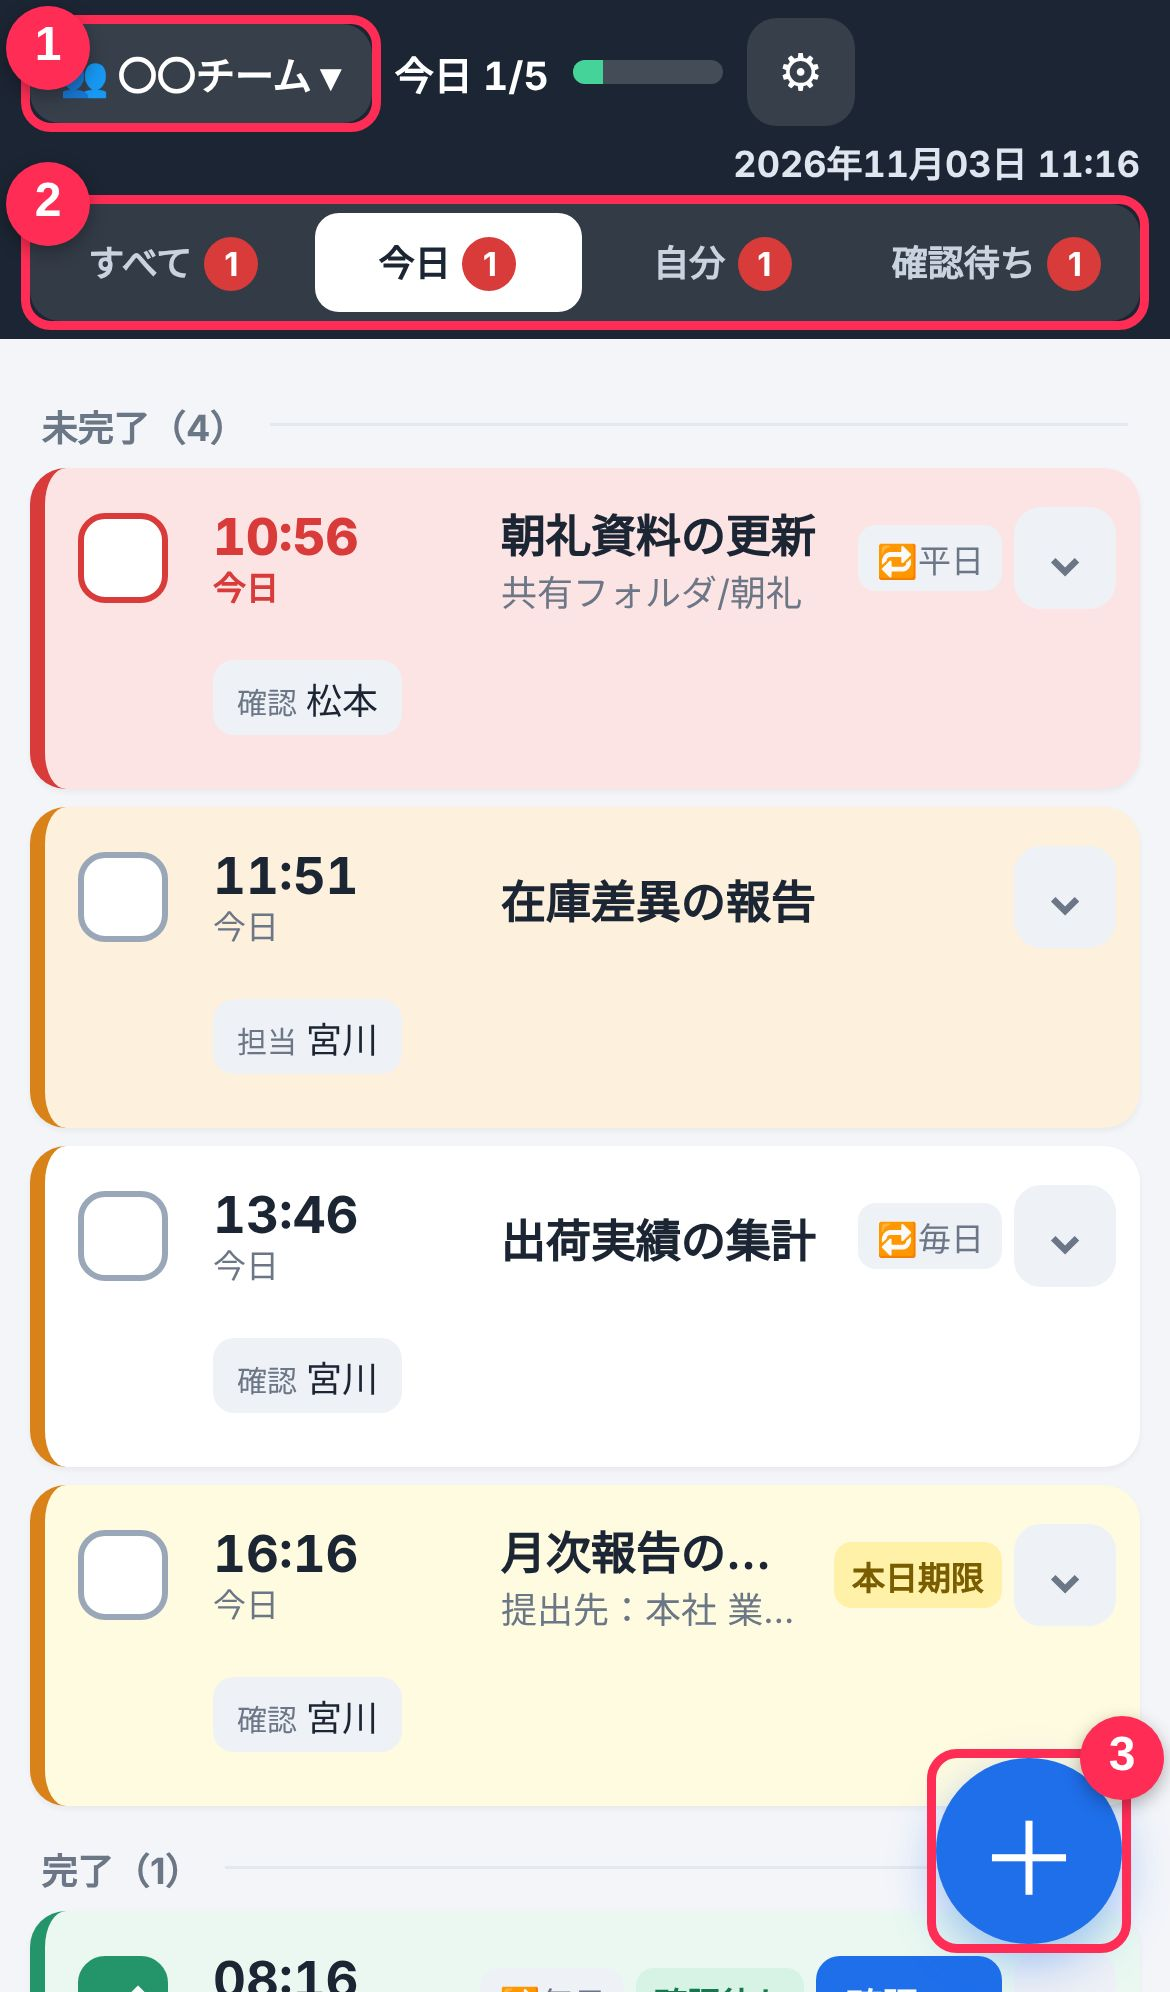
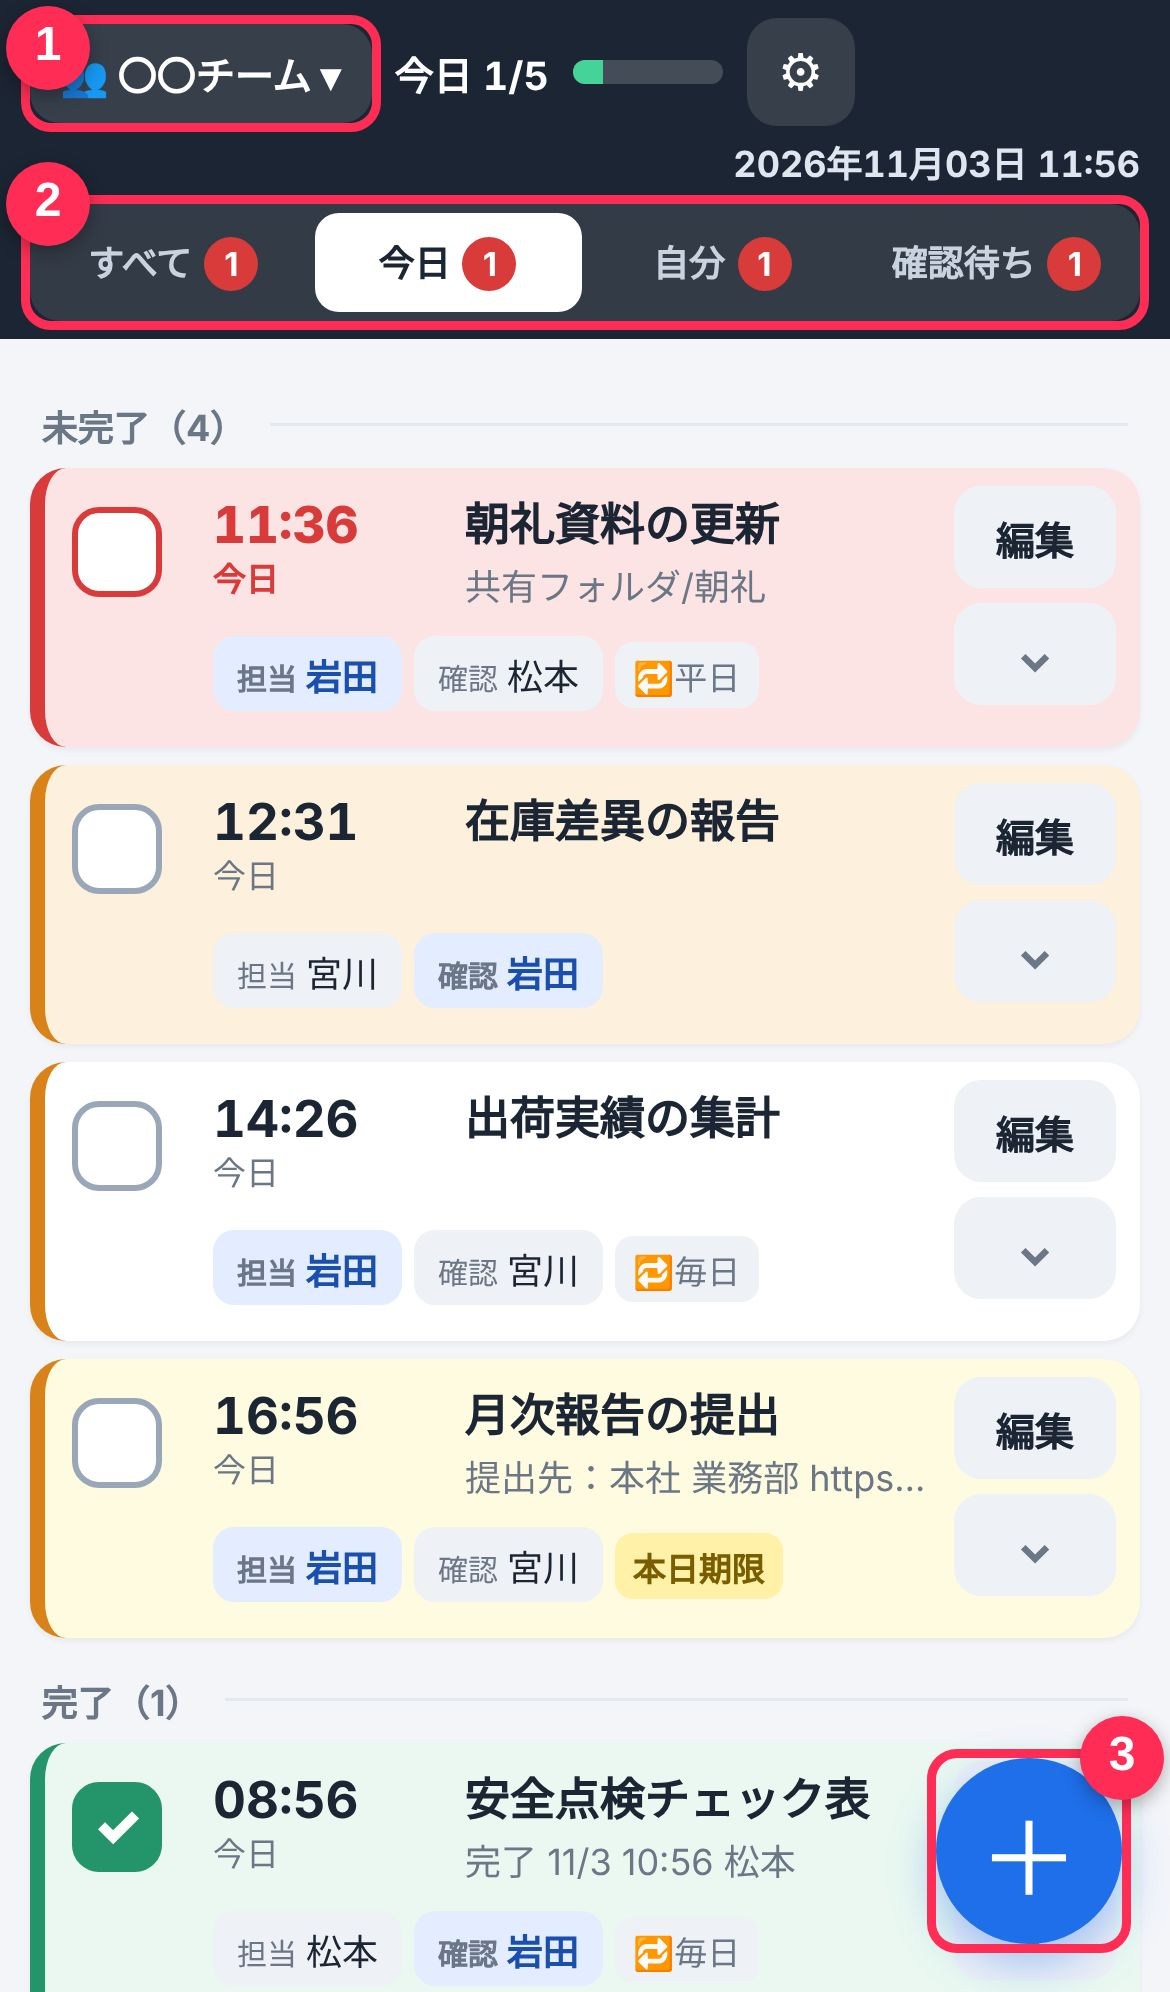
縦画面中心のレイアウトに変更・編集ボタン化・PCでは詳細を右側に常時表示・マニュアル更新
Claude-Session: https://claude.ai/code/session_01CCTYimLHoh7ksLE7jkJJnQ

diff --git a/manual.html b/manual.html
@@ -153,17 +153,16 @@ footer{text-align:center;font-size:12px;color:var(--sub);margin-top:30px}
   </ol>
  </div>
  <div class="card">
-  <p class="lead">📱 <b>横向き</b>にすると、1行で全部見えて便利です（画面の回転ロックをオフに）</p>
-  <img class="shot" src="manual/list-l.jpg" alt="一覧（横）">
+  <img class="shot p" src="manual/list-l.jpg" alt="一覧（横）">
   <ol class="k">
    <li><b class="m">1</b><span>チェック欄（押すと完了）</span></li>
    <li><b class="m">2</b><span>期限　<span style="background:#fde4e4;padding:0 4px;border-radius:4px">赤</span>＝期限切れ　<span style="background:#fdf0dc;padding:0 4px;border-radius:4px">オレンジ</span>＝1時間以内　<span style="background:#fffbe0;padding:0 4px;border-radius:4px">黄色</span>＝前もって登録した「今日が期限」</span></li>
    <li><b class="m">3</b><span>担当者と確認者（自分は青色）</span></li>
   </ol>
-  <img class="shot" style="margin-top:12px" src="manual/future.jpg" alt="先の予定">
-  <p style="font-size:14px;margin-top:8px">右端の <b style="display:inline-flex;width:24px;height:24px;border-radius:7px;background:#eef1f6;align-items:center;justify-content:center">⌄</b> を押すと、下に詳細が開きます。</p>
-  <img class="shot" style="margin-top:10px" src="manual/detail.jpg" alt="詳細の展開">
-  <ol class="k"><li><b class="m">1</b><span>⌄ を押すと開く／もう一度押すと閉じる</span></li><li><b class="m">2</b><span>メモ・期限・作成者などの詳細（URLは押すと開けます）。変更は ⌄ の左の ✏ ボタンから</span></li></ol>
+  <img class="shot p" style="margin-top:12px" src="manual/future.jpg" alt="先の予定">
+  <p style="font-size:14px;margin-top:8px">右側の <b>「編集」</b> で内容を変更、その下の <b style="display:inline-flex;width:24px;height:24px;border-radius:7px;background:#eef1f6;align-items:center;justify-content:center">⌄</b> で詳細が下に開きます。</p>
+  <img class="shot p" style="margin-top:10px" src="manual/detail.jpg" alt="詳細の展開">
+  <ol class="k"><li><b class="m">1</b><span>「編集」で変更／⌄ で詳細を開く・閉じる</span></li><li><b class="m">2</b><span>メモ・期限・作成者などの詳細（URLは押すと開けます）</span></li></ol>
   <p style="font-size:14px;margin-top:8px"><b class="m" style="display:inline-flex;width:22px;height:22px;border-radius:50%;background:var(--red);color:#fff;font-size:12px;align-items:center;justify-content:center">1</b> 今日以外のタスクは <b>日付</b> と <b style="color:var(--main)">あと○日</b> で表示されます。</p>
  </div>
 </section>
@@ -189,7 +188,7 @@ footer{text-align:center;font-size:12px;color:var(--sub);margin-top:30px}
    <li><b class="m">1</b><span>繰り返し：毎日・平日・毎週・毎月のタスクは、完了すると<b>次回分が自動で作られます</b>（その日になるまで表示されません）</span></li>
    <li><b class="m">2</b><span>詳細メモ：手順や保存場所など</span></li>
   </ol>
-  <div class="tip">💡 作ったタスクをタップすると、あとから変更・削除できます。</div>
+  <div class="tip">💡 作ったタスクは、右側の「編集」から変更・削除できます。</div>
  </div>
 </section>
 
@@ -198,7 +197,7 @@ footer{text-align:center;font-size:12px;color:var(--sub);margin-top:30px}
  <h2><span class="n">6</span>終わったらチェック</h2>
  <div class="card">
   <p class="lead">チェック欄を押すと、タスクが<b>下の「完了」へ移動</b>します。</p>
-  <img class="shot" src="manual/done.jpg" alt="完了">
+  <img class="shot p" src="manual/done.jpg" alt="完了">
   <p style="font-size:14px;margin-top:8px">今日のタスクが全部終わると 🎉 が出ます。間違えたら、もう一度押すと元に戻せます。</p>
  </div>
 </section>
@@ -208,7 +207,7 @@ footer{text-align:center;font-size:12px;color:var(--sub);margin-top:30px}
  <h2><span class="n">7</span>黄色のお知らせ・赤い警告</h2>
  <div class="card">
   <p class="lead">前もって登録したタスクは、<b>期限の日</b>になると黄色でお知らせします（朝8時に通知、アプリを開いた時にも表示）。</p>
-  <img class="shot" src="manual/mild.jpg" alt="黄色のお知らせ">
+  <img class="shot p" src="manual/mild.jpg" alt="黄色のお知らせ">
   <p class="cap" style="margin-top:6px">確認したら <b>「OK」</b></p>
  </div>
  <div class="card">
@@ -217,7 +216,7 @@ footer{text-align:center;font-size:12px;color:var(--sub);margin-top:30px}
    <div class="noti"><img src="icon-192.png" alt=""><div><b>⚠ 期限超過：朝礼資料の更新</b>10:06期限（5分超過）／担当 岩田・確認 松本</div></div>
   </div>
   <p class="cap" style="margin-top:8px">アプリを閉じていても <b>通知</b> が届きます（完了するまで30分ごと）</p>
-  <img class="shot" style="margin-top:14px" src="manual/alert-m.jpg" alt="赤い警告画面">
+  <img class="shot p" style="margin-top:14px" src="manual/alert-m.jpg" alt="赤い警告画面">
   <p class="cap" style="margin-top:6px">アプリを開くと <b>画面全体が赤く</b> なります</p>
   <ol class="k">
    <li><b class="m">1</b><span>終わったら「完了✓」</span></li>
@@ -232,7 +231,7 @@ footer{text-align:center;font-size:12px;color:var(--sub);margin-top:30px}
  <div class="card">
   <p class="lead">担当者が完了すると、<b>確認者に通知</b>が届きます。</p>
   <div class="noti"><img src="icon-192.png" alt=""><div><b>✅ 確認依頼：在庫差異の報告</b>宮川さんが完了しました。確認をお願いします</div></div>
-  <img class="shot" style="margin-top:14px" src="manual/check.jpg" alt="確認待ち">
+  <img class="shot p" style="margin-top:14px" src="manual/check.jpg" alt="確認待ち">
   <ol class="k">
    <li><b class="m">1</b><span>「確認待ち」タブを開く（確認待ちは<b style="color:var(--ok)">緑色</b>で表示）</span></li>
    <li><b class="m">2</b><span>「自分が確認者」／「すべて」（チーム全員分）を切り替え</span></li>
@@ -246,12 +245,12 @@ footer{text-align:center;font-size:12px;color:var(--sub);margin-top:30px}
  <h2><span class="n">9</span>メンバー招待・チーム切り替え</h2>
  <div class="card">
   <p class="lead">⚙（設定）から、新しいメンバーに招待リンクを送れます。</p>
-  <img class="shot" src="manual/invite.jpg" alt="招待">
+  <img class="shot p" src="manual/invite.jpg" alt="招待">
   <ol class="k"><li><b class="m">1</b><span>「招待リンクを送る」→ LINEなどで送信</span></li></ol>
  </div>
  <div class="card">
   <p class="lead">いくつかのチームに入っている場合は、左上のチーム名から切り替えます。</p>
-  <img class="shot" src="manual/team.jpg" alt="チーム切り替え">
+  <img class="shot p" src="manual/team.jpg" alt="チーム切り替え">
   <ol class="k">
    <li><b class="m">1</b><span>チームを押すと切り替わる</span></li>
    <li><b class="m">2</b><span>別のチームを作る・参加する</span></li>
@@ -263,7 +262,6 @@ footer{text-align:center;font-size:12px;color:var(--sub);margin-top:30px}
 <section id="faq">
  <h2><span class="n">？</span>困ったとき</h2>
  <details><summary>通知が届かない</summary><p>① ホーム画面のアイコンから開いているか（iPhoneはSafariのままでは通知できません）<br>② ⚙設定で自分の名前を選び、「通知を受け取る」を押したか<br>③ スマホの「設定 → 通知 → チームToDo」で許可になっているか<br>※通知は1〜2分ほど遅れることがあります。</p></details>
- <details><summary>画面が横向きにならない</summary><p>コントロールセンターの「画面縦向きのロック」🔒をオフにしてください。縦向きでも使えます。</p></details>
  <details><summary>上にオレンジ色の帯が出ている</summary><p>電波の弱い場所では一時的に出ることがあります。電波の良い場所で開き直してください。直らない場合は管理者に連絡してください。</p></details>
  <details><summary>他の人の追加・完了が反映されない</summary><p>通常は数秒で全員の画面に反映されます。アプリを一度閉じて開き直してください。</p></details>
  <details><summary>間違えて完了にした</summary><p>もう一度チェック欄を押すと未完了に戻ります。</p></details>

diff --git a/index.html b/index.html
@@ -60,7 +60,8 @@ main{padding:8px calc(10px + env(safe-area-inset-right)) calc(90px + env(safe-ar
 .tag.w{background:#d7f3e5;color:#16784f;font-weight:700}
 .tag.y{background:#fff1a8;color:#7a5d00;font-weight:700}
 .xv{width:34px;height:34px;border-radius:9px;background:#eef1f6;color:var(--sub);font-size:15px;font-weight:900;transition:transform .25s;flex:none}
-.xe{width:34px;height:34px;border-radius:9px;background:#eef1f6;font-size:15px;flex:none}
+.xe{height:34px;padding:0 10px;border-radius:9px;background:#eef1f6;color:var(--ink);font-size:13px;font-weight:700;white-space:nowrap}
+.acts .xv{width:auto}
 .row.xo .xv{transform:rotate(180deg);background:var(--main2);color:var(--main)}
 .xp{grid-column:1/-1;display:grid;grid-template-rows:0fr;transition:grid-template-rows .28s ease}
 .row.xo .xp{grid-template-rows:1fr}
@@ -90,11 +91,13 @@ main{padding:8px calc(10px + env(safe-area-inset-right)) calc(90px + env(safe-ar
 .ttl{min-width:0}
 .t{font-size:15px;font-weight:700;white-space:nowrap;overflow:hidden;text-overflow:ellipsis}
 .d{font-size:12px;color:var(--sub);white-space:nowrap;overflow:hidden;text-overflow:ellipsis}
-.ppl{display:flex;gap:5px;flex-wrap:nowrap}
+.ppl{display:flex;gap:5px;flex-wrap:nowrap;align-items:center}
 .who{font-size:12px;padding:4px 8px;border-radius:7px;background:#eef1f6;white-space:nowrap}
 .who i{font-style:normal;color:var(--sub);font-size:10px;margin-right:3px}
 .who.mine{background:var(--main2);color:#1a4fae;font-weight:700}
-.tags{display:flex;gap:4px;align-items:center;justify-content:flex-end;min-width:30px}
+.tags{display:flex;gap:4px;align-items:center;justify-content:flex-end;flex-wrap:wrap}
+.tags:empty{display:none}
+.acts{display:flex;flex-direction:column;gap:5px;align-items:stretch}
 .tag{font-size:11px;padding:3px 6px;border-radius:6px;background:#eef1f6;color:var(--sub);white-space:nowrap}
 .cfm{font-size:12px;font-weight:700;padding:7px 10px;border-radius:8px;background:var(--main);color:#fff;white-space:nowrap}
 .okd{font-size:11px;color:var(--ok);font-weight:700;white-space:nowrap}
@@ -151,7 +154,7 @@ textarea.in{min-height:56px;resize:vertical}
  padding:calc(12px + env(safe-area-inset-top)) calc(16px + env(safe-area-inset-right)) calc(12px + env(safe-area-inset-bottom)) calc(16px + env(safe-area-inset-left))}
 #alert.show{display:flex}
 @keyframes pulse{0%,100%{background:#c41d1d}50%{background:#ff2b2b}}
-#alert .ah{display:flex;align-items:center;gap:12px;margin-bottom:8px}
+#alert .ah{display:flex;align-items:baseline;gap:4px 12px;margin-bottom:8px;flex-wrap:wrap}
 #alert .ah b{font-size:26px;font-weight:900}
 #alert .ah small{font-size:13px;opacity:.9}
 #alert .al{flex:1;overflow:auto}
@@ -168,6 +171,17 @@ textarea.in{min-height:56px;resize:vertical}
 .party{position:fixed;inset:0;display:flex;align-items:center;justify-content:center;pointer-events:none;z-index:150;font-size:70px;opacity:0;transition:opacity .3s}
 .party.show{opacity:1}
 /* portrait fallback */
+/* PC（横幅が広く、マウス操作）：詳細を最初から右側に表示 */
+@media (min-width:1100px) and (hover:hover){
+ main{max-width:1500px}
+ .row{grid-template-columns:52px 96px minmax(200px,1fr) auto auto minmax(340px,38%);align-items:center}
+ .xp{grid-column:6;grid-row:1;grid-template-rows:1fr;align-self:stretch;padding:4px 0}
+ .xin{margin:0;padding:6px 10px;font-size:12px;line-height:1.5;height:100%}
+ .xin .memo{font-size:12px;margin-bottom:3px;max-height:3em;overflow:hidden}
+ .xin dl{grid-template-columns:auto 1fr auto 1fr;gap:0 8px}
+ .acts .xv{display:none}
+ .ttl .d{display:none}
+}
 @media (max-width:1000px){ .brand{display:none} }
 @media (max-width:640px){
  .brand,.me{display:none}
@@ -179,9 +193,19 @@ textarea.in{min-height:56px;resize:vertical}
  .seg{order:5;width:100%;margin-left:0;justify-content:space-between}
  .seg button{flex:1}
  .seg button{padding:7px 8px;font-size:12px}
- .row{grid-template-columns:48px 88px 1fr auto;padding-right:8px}
- .ppl{grid-column:2/-1;grid-row:2;padding-bottom:6px}
- .tags{grid-column:4;grid-row:1}
+ .row{grid-template-columns:48px 76px 1fr 54px;padding:6px 8px 6px 0;align-items:start;row-gap:6px}
+ .ck{height:44px;width:48px}
+ .due{padding-top:4px}
+ .ttl{padding-top:3px}
+ .t{white-space:normal;display:-webkit-box;-webkit-line-clamp:2;-webkit-box-orient:vertical;line-height:1.35}
+ .ppl{grid-column:2/4;grid-row:2;flex-wrap:wrap;gap:4px}
+ .acts{grid-column:4;grid-row:1/span 2}
+ .xp{grid-row:3}
+ #alert .ah b{font-size:22px}
+ .ai{flex-wrap:wrap}
+ .ai .tx{flex-basis:calc(100% - 90px)}
+ .ai button{width:100%}
+ .xin{margin-left:6px}
  .grid,.two{grid-template-columns:1fr}
 }
 @media (max-height:440px){ .ov{align-items:stretch} .panel{border-radius:0;height:100%} }
@@ -490,9 +514,9 @@ function rowHtml(t){
   return `<div class="${cls.join(' ')}" data-id="${esc(t.id)}">
    <button class="ck" data-act="done" aria-label="完了"><span>${t.done?'✓':''}</span></button>
    ${dueHtml(t)}
-   <div class="ttl" data-act="edit"><div class="t">${esc(t.title)}</div><div class="d">${sub}</div></div>
-   <div class="ppl" data-act="edit">${who(t.assignee,'担当')}${who(t.checker,'確認')}</div>
-   <div class="tags">${tail}<button class="xe" data-act="edit" aria-label="編集">✏</button><button class="xv" data-act="xp" aria-label="詳細">⌄</button></div>
+   <div class="ttl"><div class="t">${esc(t.title)}</div><div class="d">${sub}</div></div>
+   <div class="ppl">${who(t.assignee,'担当')}${who(t.checker,'確認')}${tail}</div>
+   <div class="acts"><button class="xe" data-act="edit">編集</button><button class="xv" data-act="xp" aria-label="詳細">⌄</button></div>
    <div class="xp"><div>${detailHtml(t)}</div></div></div>`;
 }
 const linkify = s => esc(s).replace(/https?:\/\/[^\s<]+/g, u=>`<a href="${u}" target="_blank" rel="noopener">${u}</a>`);
@@ -518,7 +542,8 @@ $('#list').addEventListener('click', e=>{
   if(a && a.dataset.act==='xp'){ const id=row.dataset.id; if(openRows.has(id)) openRows.delete(id); else openRows.add(id); row.classList.toggle('xo'); return; }
   if(e.target.closest('.xin') && !a) return;
   const t=tasks.find(x=>x.id===row.dataset.id); if(!t) return;
-  const act = a ? a.dataset.act : 'edit';
+  if(!a) return; // 行を押しただけでは何もしない（編集は「編集」ボタンから）
+  const act = a.dataset.act;
   if(act==='done') toggleDone(t,row);
   else if(act==='confirm') confirmTask(t);
   else openEdit(t);
